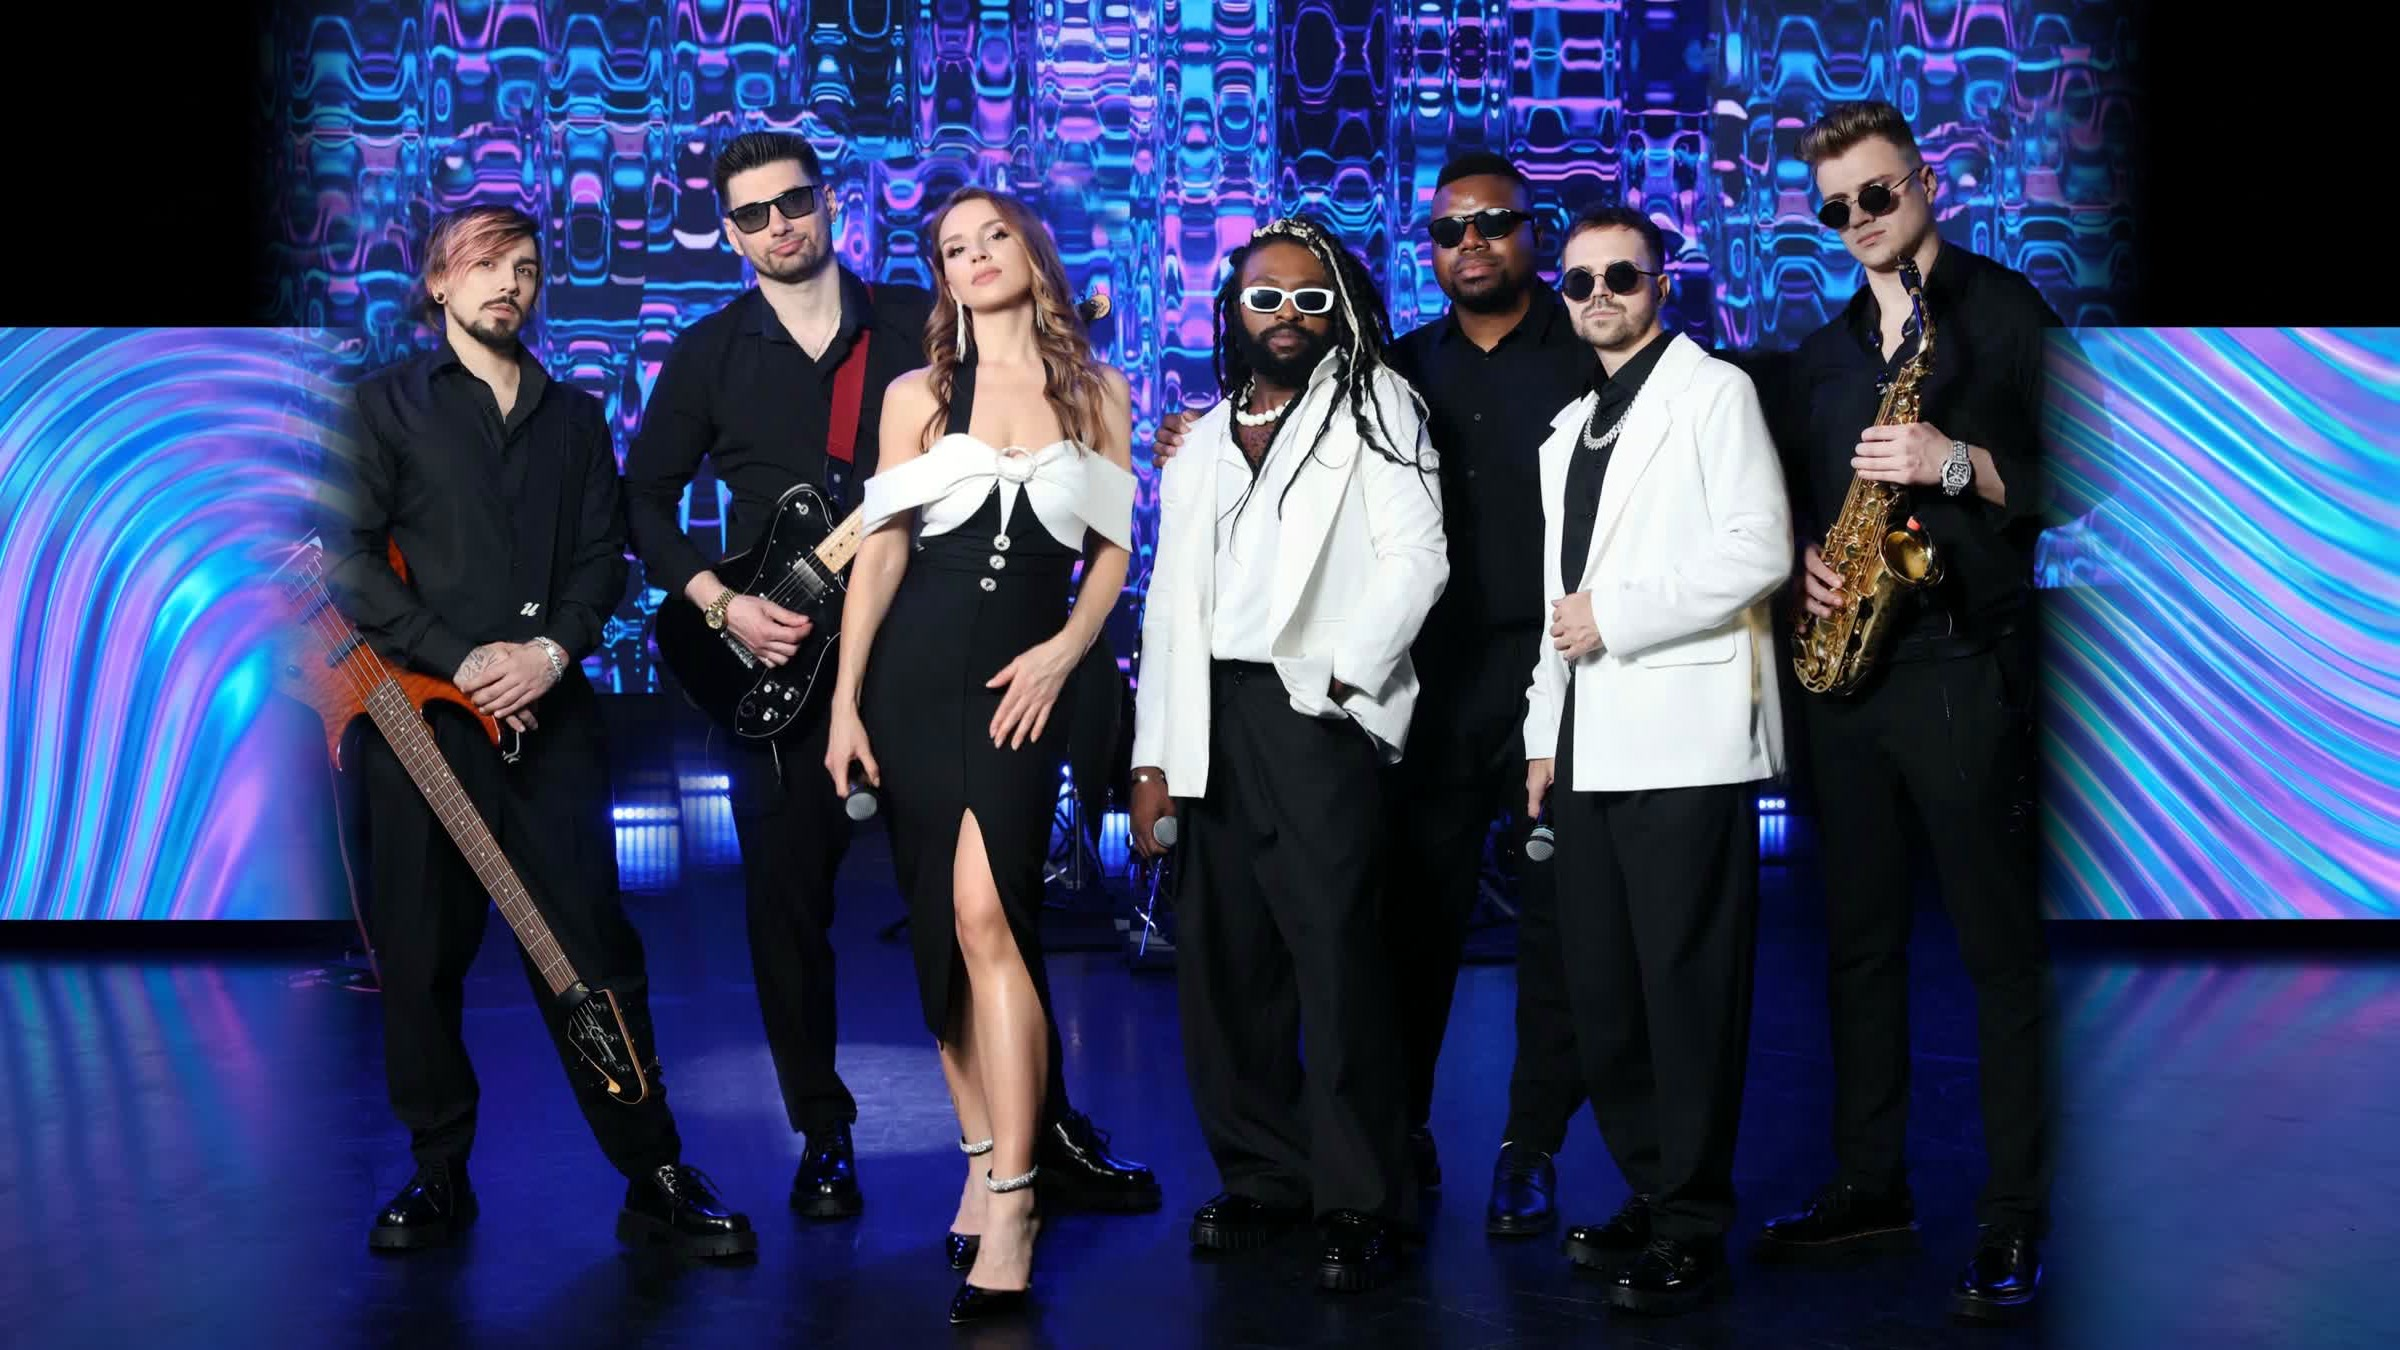
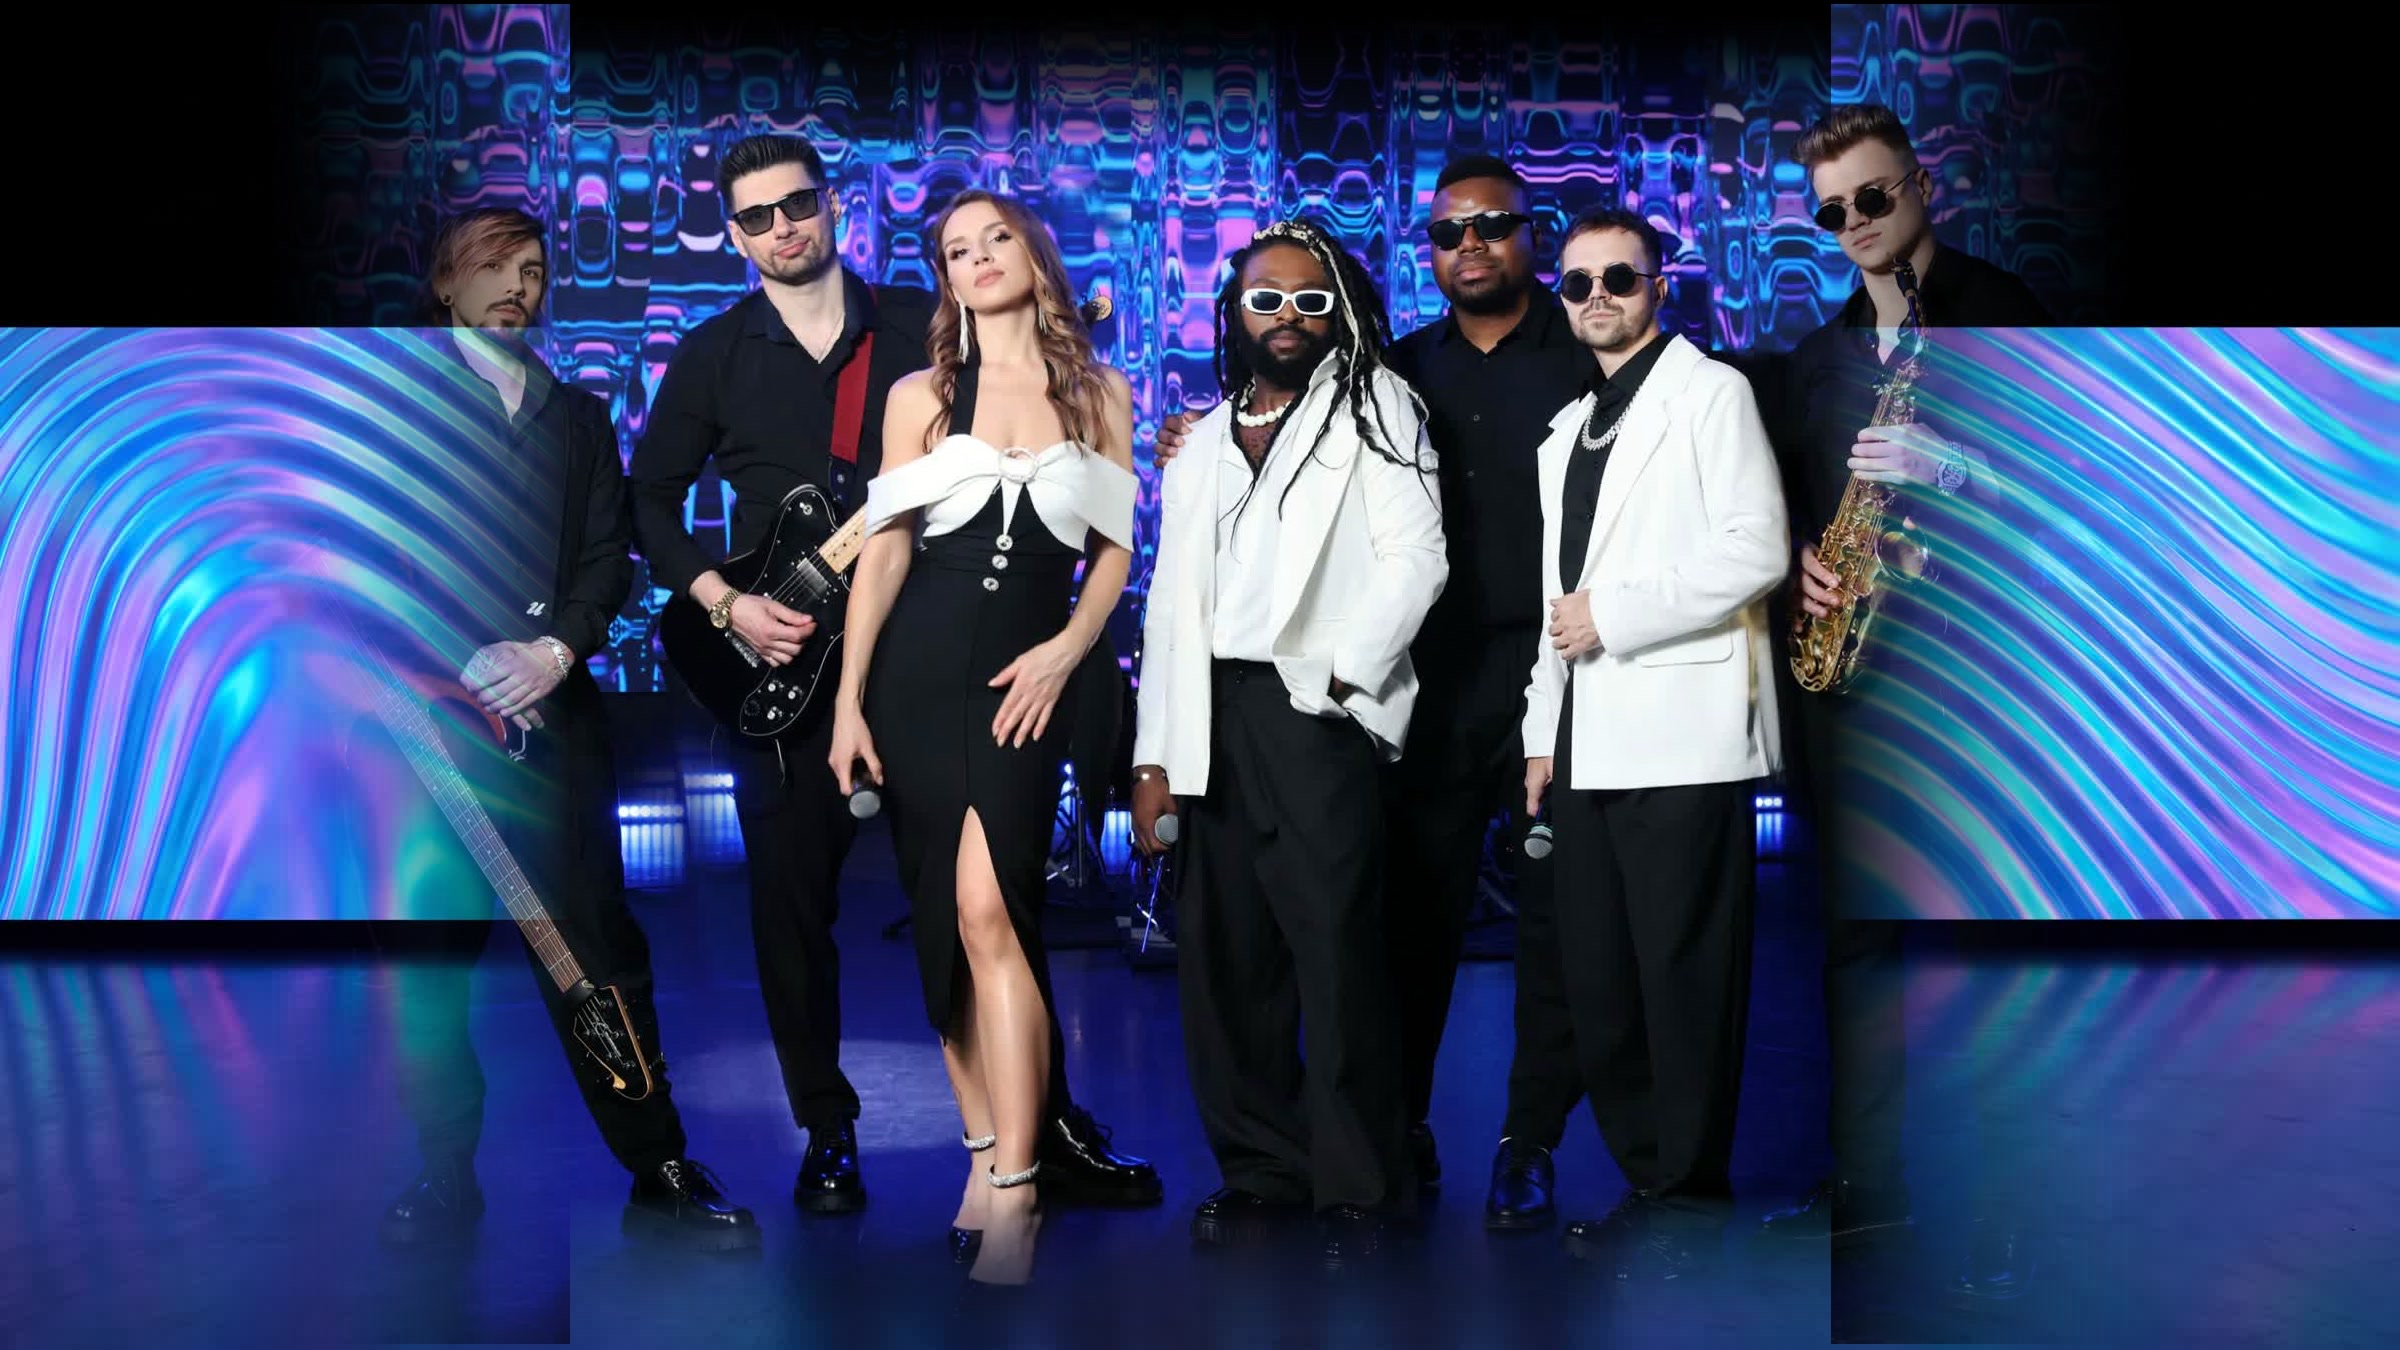
Fix image crops: object-position per-slug for lineup + video cards; restore teddy/stas originals

diff --git a/src/styles.css b/src/styles.css
@@ -869,10 +869,19 @@ h1, h2, h3, p { margin: 0; }
 	width: 100%;
 	height: 100%;
 	object-fit: cover;
+	object-position: center 30%;
 	transition: transform 0.6s cubic-bezier(.4, 0, .2, 1);
 }
 
 .lineup__card:hover img { transform: scale(1.04); }
+
+/* Per-slug overrides for lineup costume cards that need custom framing */
+.lineup__card[data-slug="all-black"]    img { object-position: 42% 35%; }
+.lineup__card[data-slug="gold"]         img { object-position: center 32%; }
+.lineup__card[data-slug="red-group"]    img { object-position: center 30%; }
+.lineup__card[data-slug="black-white"]  img { object-position: center 28%; }
+.lineup__card[data-slug="black-silver"] img { object-position: center 30%; }
+.lineup__card[data-slug="dark-green-group"] img { object-position: center 30%; }
 
 .lineup__card figcaption {
 	position: absolute;
@@ -957,10 +966,19 @@ h1, h2, h3, p { margin: 0; }
 	width: 100%;
 	height: 100%;
 	object-fit: cover;
+	object-position: center 25%;
 	transition: transform 0.6s cubic-bezier(.4, 0, .2, 1);
 }
 
 .video-card:hover img { transform: scale(1.04); }
+
+/* Per-key overrides for specific video-card posters */
+.video-card[data-video="thematic-russian"]     img { object-position: center 15%; }
+.video-card[data-video="thematic-jazz"]        img { object-position: center 28%; }
+.video-card[data-video="thematic-rock"]        img { object-position: center 20%; }
+.video-card[data-video="thematic-chanson"]     img { object-position: 42% 30%; }
+.video-card[data-video="thematic-caucasus"]    img { object-position: center 30%; }
+.video-card[data-video="thematic-instrumental"] img { object-position: center 20%; }
 
 .video-card__play {
 	position: absolute;
